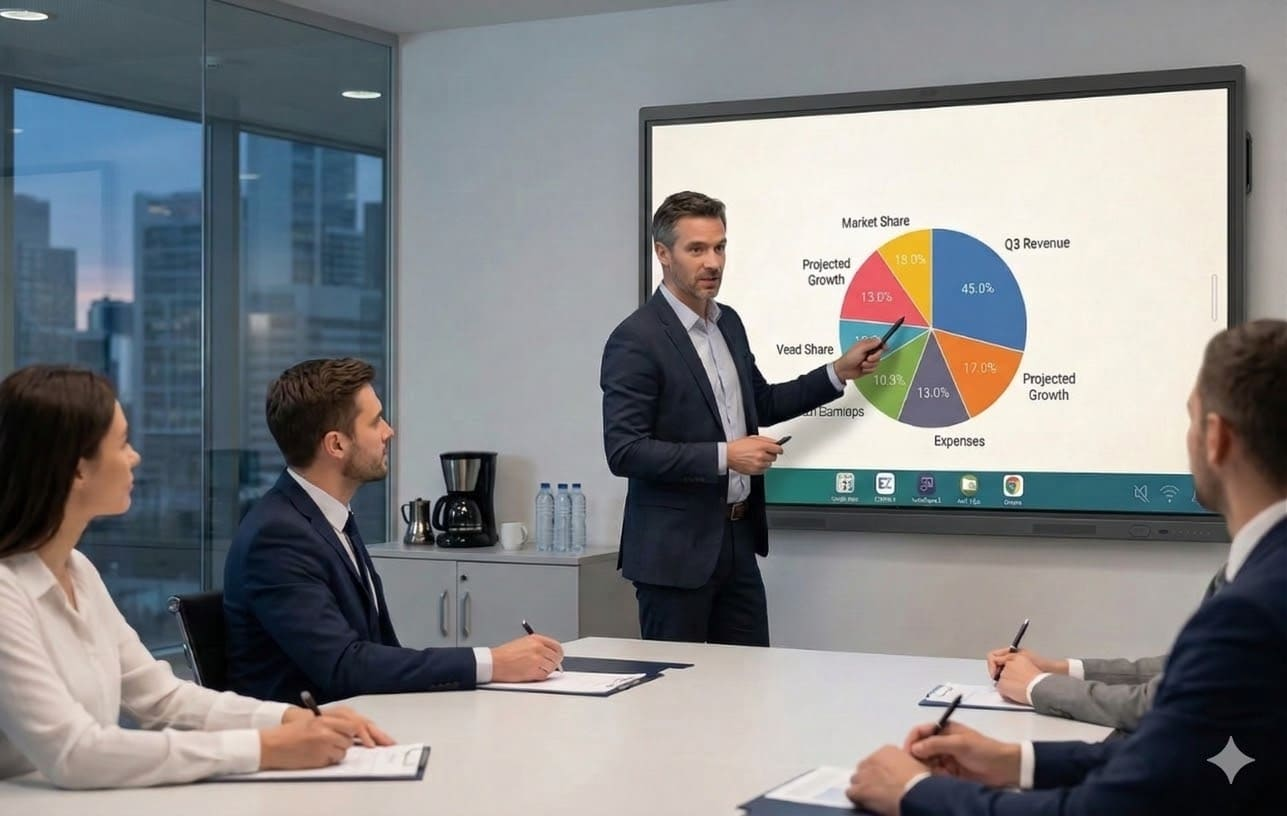
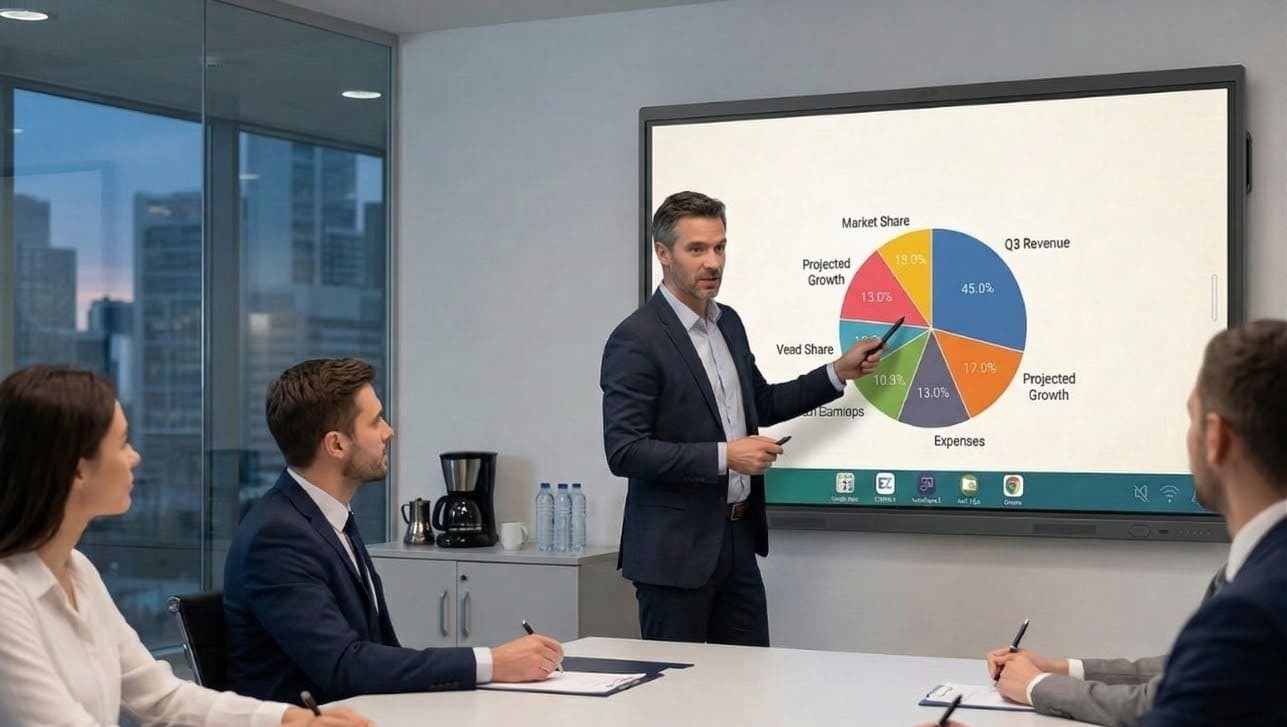
Updates

diff --git a/index.html b/index.html
@@ -4,15 +4,23 @@
 <head>
   <meta charset="UTF-8" />
   <link rel="icon" type="image/svg+xml" href="/vite.svg" />
-  <meta name="viewport" content="width=device-width, initial-scale=1.0" />
+  <!-- Security CSP (Development & Production Safe) -->
+  <meta http-equiv="Content-Security-Policy" content="default-src 'self'; img-src 'self' data: https:; style-src 'self' 'unsafe-inline' https://fonts.googleapis.com; font-src 'self' data: https://fonts.gstatic.com; script-src 'self' 'unsafe-inline' 'unsafe-eval'; connect-src 'self' ws: wss: https:;" />
+  
+  <!-- Foundation SEO Metadata -->
   <title>InfinityX | Premium System Integration</title>
+  <meta name="description" content="Premier system integration partner delivering high-performance IT infrastructure and intelligent display solutions across education and enterprise environments." />
+  <meta name="keywords" content="Interactive Displays, Smart Boards, IFPD, Education Technology, System Integration, C-Series, Eco Series, Pro Series, Matrix Edge" />
+  <meta property="og:title" content="InfinityX | Educational and Corporate System Integrator" />
+  <meta property="og:description" content="Delivering high-performance IT infrastructure and interactive intelligent displays." />
+  <meta property="og:type" content="website" />
   <link rel="preconnect" href="https://fonts.googleapis.com">
   <link rel="preconnect" href="https://fonts.gstatic.com" crossorigin>
   <link href="https://fonts.googleapis.com/css2?family=Inter:wght@400;500;600;700;800&display=swap" rel="stylesheet">
   <link rel="preload" href="/MATRIX%20PRODUCTS%20VISULAID%20(3)/home_page_final.jpeg" as="image" />
   <link rel="preload" href="/scroll/cc_cams.jpeg?v=2" as="image" />
   <link rel="preload" href="/MATRIX%20PRODUCTS%20VISULAID%20(3)/SmartClass.png" as="image" />
-  <script type="module" crossorigin src="/infinityx-site/assets/index-BpPIB_9C.js"></script>
+  <script type="module" crossorigin src="/infinityx-site/assets/index-D9kCTPrK.js"></script>
   <link rel="stylesheet" crossorigin href="/infinityx-site/assets/index-D_dC3NVr.css">
 </head>
 